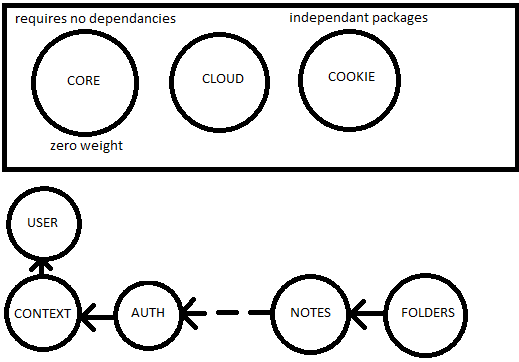
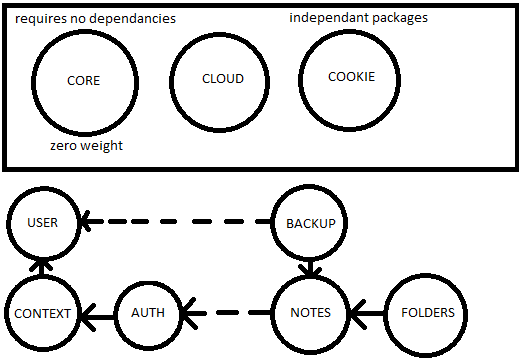
Added Module BACKUP, Initialized Tests, Edited Documentation

Changed region(s): [[0.4316, 0.4862, 0.6782, 0.7597], [0.1541, 0.5773, 0.3391, 0.6381], [0.3699, 0.6077, 0.4008, 0.6381]]

diff --git a/BACKUP/BACKUP_interface_test.go b/BACKUP/BACKUP_interface_test.go
@@ -1,0 +1,67 @@
+package BACKUP
+import(
+	"fmt"
+	"testing"
+	"google.golang.org/appengine/aetest"
+	"github.com/Esseh/retrievable"
+	"github.com/Esseh/notorious-dev/NOTES"
+)
+func TestUpdateBackup(t *testing.T){
+	ctx, done, err := aetest.NewContext()
+	defer done()
+	if err != nil {
+		fmt.Println("PANIC in UpdateBackupTest")
+		panic(1)
+	}
+	if UpdateBackup(ctx,int64(24),int64(42),Backup{Title:"test"}) != nil {
+		fmt.Println("FAIL UpdateBackup 1")
+		t.Fail()
+	}
+	// Make sure not only that it is stored, but that the key schema is followed.
+	b := Backup{} 
+	retrievable.GetEntity(ctx,"24-42",&b)
+	if b.Title != "test" {
+		fmt.Println("FAIL UpdateBackup 1")
+		t.Fail()
+	}
+}
+func TestRetrieveBackup(t *testing.T){
+	ctx, done, err := aetest.NewContext()
+	defer done()
+	if err != nil {
+		fmt.Println("PANIC in RetrieveBackupTest")
+		panic(1)
+	}
+	// Place an Entry
+	UpdateBackup(ctx,int64(24),int64(42),Backup{Title:"test"})
+	// Success Case
+	if (RetrieveBackup(ctx,int64(24),int64(42))).Title != "test" {
+		fmt.Println("FAIL RetrieveBackup 1")
+		t.Fail()
+	}
+	// Fail Case
+	if RetrieveBackup(ctx,int64(10),int64(10)) != (NOTES.Content{}) {
+		fmt.Println("FAIL RetrieveBackup 2")
+		t.Fail()
+	}	
+}
+func TestBackupExists(t *testing.T){
+	ctx, done, err := aetest.NewContext()
+	defer done()
+	if err != nil {
+		fmt.Println("PANIC in BackupExistsTest")
+		panic(1)
+	}
+	// Fail Case
+	if BackupExists(ctx,int64(24),int64(42)){
+		fmt.Println("FAIL BackupExists 1")
+		t.Fail()
+	}
+	// Place an Entry
+	UpdateBackup(ctx,int64(24),int64(42),Backup{Title:"test"})
+	// Success Case
+	if !BackupExists(ctx,int64(24),int64(42)){
+		fmt.Println("FAIL BackupExists 2")
+		t.Fail()
+	}
+}

diff --git a/BACKUP/BACKUP_interface.go b/BACKUP/BACKUP_interface.go
@@ -1,0 +1,8 @@
+package BACKUP
+import (
+	"golang.org/x/net/context"
+	"github.com/Esseh/notorious-dev/NOTES"
+)
+func UpdateBackup(ctx context.Context,NoteID,UserID int64,backup Backup) error { return nil}
+func RetrieveBackup(ctx context.Context,NoteID,UserID int64) NOTES.Content { return NOTES.Content{}}
+func BackupExists(ctx context.Context,NoteID,UserID int64) bool { return false }

diff --git a/BACKUP/BACKUP_structure.go b/BACKUP/BACKUP_structure.go
@@ -1,0 +1,12 @@
+package BACKUP
+import(
+	"golang.org/x/net/context"
+	"google.golang.org/appengine/datastore"
+	"github.com/Esseh/notorious-dev/NOTES"
+)
+var BackupTable = "Backups"
+
+type Backup NOTES.Content
+func (b *Backup) Key(ctx context.Context, key interface{}) *datastore.Key {
+	return datastore.NewKey(ctx, BackupTable, key.(string), int64(0), nil)
+}

diff --git a/BACKUP/BACKUP_structure_test.go b/BACKUP/BACKUP_structure_test.go
@@ -1,0 +1,9 @@
+package BACKUP
+import(
+	"testing"
+	"github.com/Esseh/retrievable"
+)
+func TestBackup(t*testing.T){
+	// Would panic if it didn't implement retrievable.
+	(func(r retrievable.Retrievable){})(&Backup{})
+}
